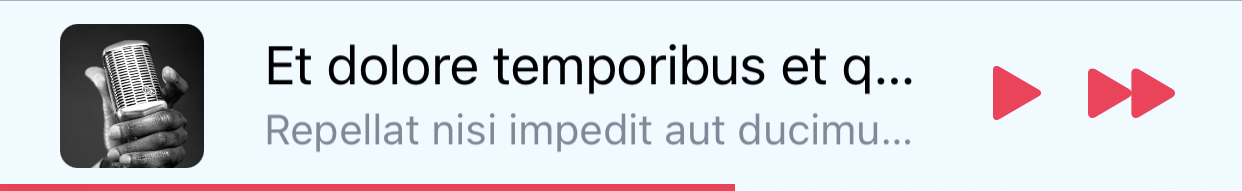
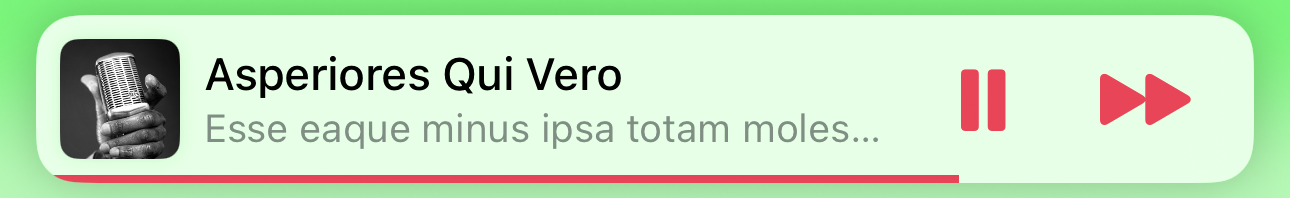
Modernize README gifs

diff --git a/README.md b/README.md
@@ -187,7 +187,7 @@ To hide the popup close button, set the `popupCloseButtonStyle` to `.none`.
 
 Supplying long text for the title and/or subtitle will result in a scrolling text, if text marquee scroll is enabled. Otherwise, the text will be truncated. To enable text marquee scrolling, use the `popupBarMarqueeScrollEnabled()` modifier.
 
-<p align="center"><img src="./Supplements/modern_no_scroll.gif" width="360"/> <img src="./Supplements/scroll.gif" width="360"/></p>
+<p align="center"><img src="./Supplements/floating_no_scroll.gif" width="360"/> <img src="./Supplements/scroll.gif" width="360"/></p>
 
 #### Popup Transitions
 
